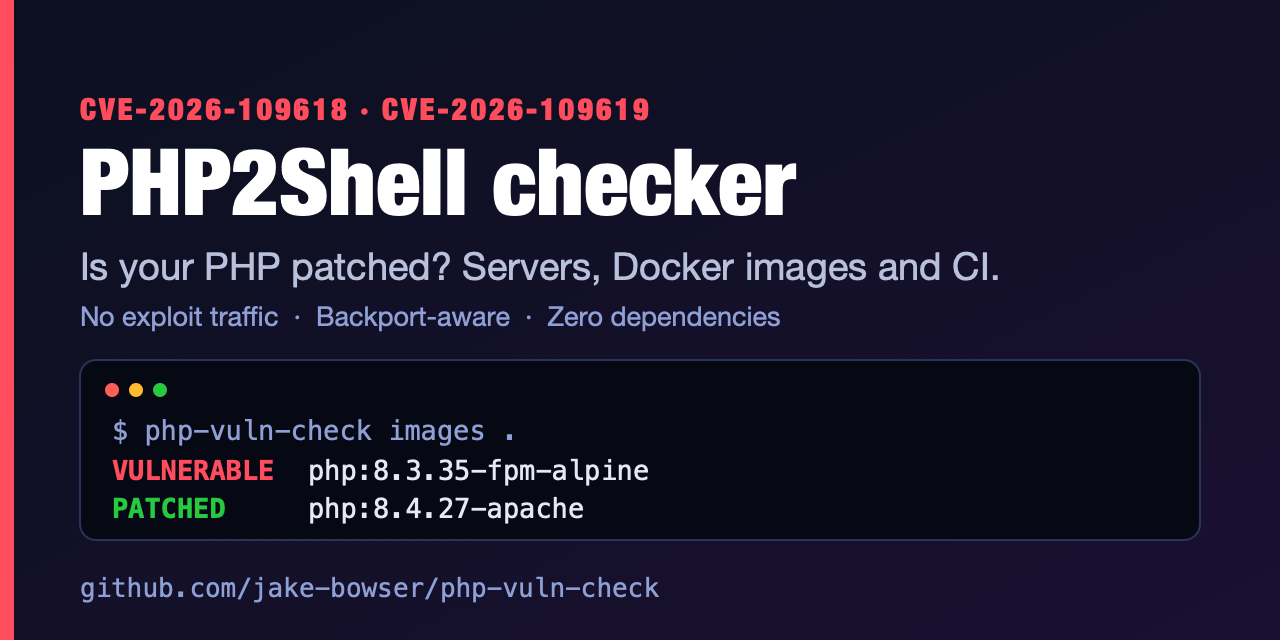
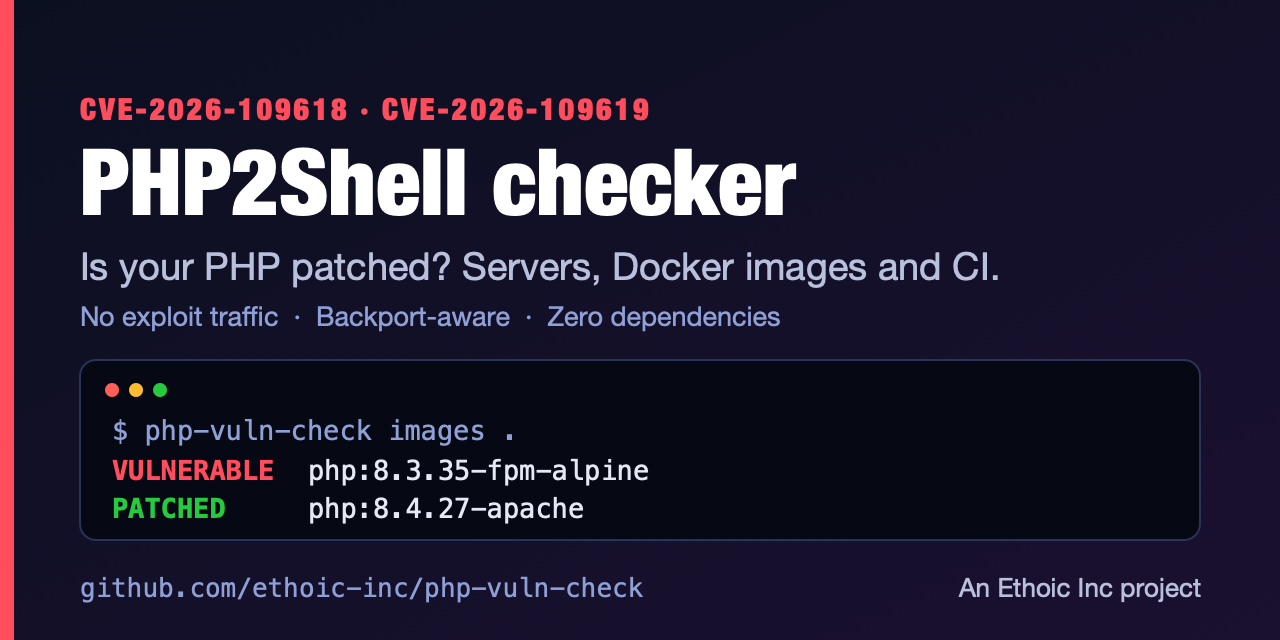
Move to the ethoic-inc org: links, attribution, public contact, v0.1.1
- every project, Pages, badge, Action and pre-commit URL now points at
  github.com/ethoic-inc/php-vuln-check and ethoic-inc.github.io/php-vuln-check
- README, site and package metadata say it is an open-source project from
  Ethoic Inc and give hello@ethoic.com as the public contact
- social preview image regenerated with the new URL and attribution
- version 0.1.1 (no change in behavior); LICENSE copyright unchanged

Changed region(s): [[0.1875, 0.9062, 0.5312, 0.9375], [0.75, 0.9062, 0.9375, 0.9375]]

diff --git a/site/index.html b/site/index.html
@@ -5,12 +5,12 @@
 <meta name="viewport" content="width=device-width, initial-scale=1">
 <title>PHP2Shell Checker: Is Your PHP Vulnerable? | php-vuln-check</title>
 <meta name="description" content="Free open-source PHP2Shell checker for CVE-2026-109618 and CVE-2026-109619. Audit servers, Docker images and CI for vulnerable PHP. No exploit traffic.">
-<link rel="canonical" href="https://jake-bowser.github.io/php-vuln-check/">
+<link rel="canonical" href="https://ethoic-inc.github.io/php-vuln-check/">
 <meta property="og:type" content="website">
 <meta property="og:title" content="PHP2Shell checker: is your PHP patched?">
 <meta property="og:description" content="Audit servers, Docker images and CI for CVE-2026-109618 and CVE-2026-109619. Backport-aware, zero dependencies, no exploit traffic.">
-<meta property="og:url" content="https://jake-bowser.github.io/php-vuln-check/">
-<meta property="og:image" content="https://jake-bowser.github.io/php-vuln-check/social-preview.png">
+<meta property="og:url" content="https://ethoic-inc.github.io/php-vuln-check/">
+<meta property="og:image" content="https://ethoic-inc.github.io/php-vuln-check/social-preview.png">
 <meta property="og:image:alt" content="php-vuln-check terminal output marking php:8.3.35-fpm-alpine VULNERABLE and php:8.4.27-apache PATCHED">
 <meta name="twitter:card" content="summary_large_image">
 <script type="application/ld+json">
@@ -22,12 +22,13 @@
   "description": "Open-source PHP vulnerability checker for PHP2Shell (CVE-2026-109618 and CVE-2026-109619). Audits servers, Docker images and CI pipelines, and understands distro backports.",
   "applicationCategory": "SecurityApplication",
   "operatingSystem": "Linux, macOS",
-  "url": "https://jake-bowser.github.io/php-vuln-check/",
-  "downloadUrl": "https://github.com/jake-bowser/php-vuln-check",
-  "codeRepository": "https://github.com/jake-bowser/php-vuln-check",
+  "url": "https://ethoic-inc.github.io/php-vuln-check/",
+  "downloadUrl": "https://github.com/ethoic-inc/php-vuln-check",
+  "codeRepository": "https://github.com/ethoic-inc/php-vuln-check",
   "license": "https://opensource.org/licenses/MIT",
   "offers": { "@type": "Offer", "price": "0", "priceCurrency": "USD" },
-  "author": { "@type": "Person", "name": "Jake Bowser" }
+  "author": { "@type": "Person", "name": "Jake Bowser" },
+  "publisher": { "@type": "Organization", "name": "Ethoic Inc", "url": "https://ethoic.com", "email": "hello@ethoic.com" }
 }
 </script>
 <style>
@@ -71,12 +72,12 @@ footer { margin-top: 56px; color: var(--muted); font-size: .9rem; }
   <p class="lead">php-vuln-check is a free, open-source PHP2Shell checker. It audits your servers, Docker images and CI pipelines, understands distro backports, and never sends exploit traffic.</p>
 
   <div class="cta">
-    <a class="btn primary" href="https://github.com/jake-bowser/php-vuln-check">View on GitHub</a>
-    <a class="btn" href="https://github.com/jake-bowser/php-vuln-check#readme">Read the docs</a>
+    <a class="btn primary" href="https://github.com/ethoic-inc/php-vuln-check">View on GitHub</a>
+    <a class="btn" href="https://github.com/ethoic-inc/php-vuln-check#readme">Read the docs</a>
   </div>
 
   <h2>Check your PHP in 10 seconds</h2>
-<pre tabindex="0"><code>pipx install git+https://github.com/jake-bowser/php-vuln-check
+<pre tabindex="0"><code>pipx install git+https://github.com/ethoic-inc/php-vuln-check
 php-vuln-check            # audit PHP on this server
 php-vuln-check images .   # audit Dockerfiles, compose files, Kubernetes manifests</code></pre>
 <pre tabindex="0"><code><span class="bad">VULNERABLE</span>  php:8.3.35-fpm-alpine
@@ -115,7 +116,7 @@ php-vuln-check images .   # audit Dockerfiles, compose files, Kubernetes manifes
   <details><summary>How is this different from other PHP2Shell scanners?</summary><p>Active scanners probe a host by deliberately triggering PHP memory exhaustion. php-vuln-check reads versions, changelogs and config instead, so it is safe on production and covers images, pipelines and whole fleets. Use both.</p></details>
 
   <footer>
-    <p>An independent open-source project under the MIT license, not affiliated with the PHP Group. Sources: <a href="https://sansec.io/research/php2shell">Sansec</a>, <a href="https://www.helpnetsecurity.com/2026/10/21/php2shell-php-vulnerabilities-patched-cve-2026-109618-cve-2026-109619/">Help Net Security</a>, <a href="https://watchtowr.com/intelligence/php-cve-2026-109618-faq/">watchTowr</a>. A PATCHED result is evidence about versions and changelogs, not a guarantee.</p>
+    <p>An open-source project from <a href="https://ethoic.com">Ethoic Inc</a>, under the MIT license and not affiliated with the PHP Group. Contact: <a href="mailto:hello@ethoic.com">hello@ethoic.com</a>. Sources: <a href="https://sansec.io/research/php2shell">Sansec</a>, <a href="https://www.helpnetsecurity.com/2026/10/21/php2shell-php-vulnerabilities-patched-cve-2026-109618-cve-2026-109619/">Help Net Security</a>, <a href="https://watchtowr.com/intelligence/php-cve-2026-109618-faq/">watchTowr</a>. A PATCHED result is evidence about versions and changelogs, not a guarantee.</p>
   </footer>
 </main>
 </body>

diff --git a/php_vuln_check.py b/php_vuln_check.py
@@ -7,7 +7,7 @@ reads versions, vendor changelogs and config, and never probes a target into
 failing.
 
 Single file, standard library only, Python 3.6+.
-https://github.com/jake-bowser/php-vuln-check  (MIT License)
+https://github.com/ethoic-inc/php-vuln-check  (MIT License)
 """
 import argparse
 import csv
@@ -30,8 +30,8 @@ import urllib.parse
 import urllib.request
 from concurrent.futures import ThreadPoolExecutor
 
-__version__ = "0.1.0"
-REPO_URL = "https://github.com/jake-bowser/php-vuln-check"
+__version__ = "0.1.1"
+REPO_URL = "https://github.com/ethoic-inc/php-vuln-check"
 
 VULNERABLE, REVIEW, PATCHED, ERROR, NONE = "VULNERABLE", "REVIEW", "PATCHED", "ERROR", "NONE"
 STATUS_ORDER = {VULNERABLE: 0, ERROR: 1, REVIEW: 2, PATCHED: 3, NONE: 4}

diff --git a/README.md b/README.md
@@ -2,17 +2,19 @@
 
 **A PHP vulnerability checker for [PHP2Shell](https://sansec.io/research/php2shell) (CVE-2026-109618 and CVE-2026-109619).** It tells you which of your servers, Docker images and pipelines still run vulnerable PHP, including the distro-backport cases that version-only checks get wrong. One file, no dependencies, and it never sends exploit traffic.
 
-[![CI](https://github.com/jake-bowser/php-vuln-check/actions/workflows/ci.yml/badge.svg)](https://github.com/jake-bowser/php-vuln-check/actions/workflows/ci.yml)
+[![CI](https://github.com/ethoic-inc/php-vuln-check/actions/workflows/ci.yml/badge.svg)](https://github.com/ethoic-inc/php-vuln-check/actions/workflows/ci.yml)
 [![License: MIT](https://img.shields.io/badge/license-MIT-blue.svg)](LICENSE)
 ![Python 3.6+](https://img.shields.io/badge/python-3.6%2B-blue)
 ![Dependencies: none](https://img.shields.io/badge/dependencies-none-brightgreen)
+
+*An open-source project from [Ethoic Inc](https://ethoic.com).*
 
 **Tested on real systems, not only fixtures.** CI installs PHP packages in Debian 12 and 13, Ubuntu 20.04 to 24.04, AlmaLinux 8 and 9, Rocky 9, Fedora, Amazon Linux, Alpine and the official `php` images, runs the tool there, and runs the unit tests on Python 3.6 to 3.13. It was security-reviewed independently before release.
 
 ## Check your PHP in 10 seconds
 
 ```bash
-pipx install git+https://github.com/jake-bowser/php-vuln-check
+pipx install git+https://github.com/ethoic-inc/php-vuln-check
 php-vuln-check                 # audit PHP on this server
 php-vuln-check images .        # audit Dockerfiles, compose files and Kubernetes manifests
 ```
@@ -20,7 +22,7 @@ php-vuln-check images .        # audit Dockerfiles, compose files and Kubernetes
 No install needed either. It is a single file with no dependencies, so you can drop it on a server:
 
 ```bash
-curl -fsSLO https://github.com/jake-bowser/php-vuln-check/releases/latest/download/php_vuln_check.py
+curl -fsSLO https://github.com/ethoic-inc/php-vuln-check/releases/latest/download/php_vuln_check.py
 python3 php_vuln_check.py
 ```
 
@@ -130,7 +132,7 @@ jobs:
     permissions: { contents: read, security-events: write }
     steps:
       - uses: actions/checkout@v4
-      - uses: jake-bowser/php-vuln-check@v0.1.0
+      - uses: ethoic-inc/php-vuln-check@v0.1.1
         with:
           fail-on: vulnerable          # or "review" to also fail on floating tags
           sarif-file: php-vuln.sarif
@@ -144,8 +146,8 @@ Findings show up in your repository's Security tab with the Dockerfile line. To 
 ```yaml
 # .pre-commit-config.yaml
 repos:
-  - repo: https://github.com/jake-bowser/php-vuln-check
-    rev: v0.1.0
+  - repo: https://github.com/ethoic-inc/php-vuln-check
+    rev: v0.1.1
     hooks:
       - id: php-vuln-check-images
 ```
@@ -196,6 +198,12 @@ Not yet. Advisories are one entry in the `ADVISORIES` list at the top of `php_vu
 
 Wrong result on your distro, a package manager we should read, or the next PHP advisory: open an issue or a pull request. Start with [CONTRIBUTING.md](CONTRIBUTING.md). To report a security problem in this tool, see [SECURITY.md](SECURITY.md).
 
+Questions, press or anything else: **hello@ethoic.com**.
+
+## About Ethoic
+
+[Ethoic Inc](https://ethoic.com) builds human-centered AI tools. We think software you depend on should be software you can check, so this tool runs on your own machine, has no telemetry and only talks to the hosts you point it at.
+
 ## Disclaimer
 
-This is an independent project, not affiliated with the PHP Group, Sansec, Assetnote, watchTowr or anyone else named here. It is provided as is under the [MIT license](LICENSE). A PATCHED result is evidence about versions and changelogs, not a guarantee. Only check systems you own or are authorized to check.
+php-vuln-check is an open-source project from Ethoic Inc. It is not affiliated with the PHP Group, Sansec, Assetnote, watchTowr or anyone else named here. It is provided as is under the [MIT license](LICENSE). A PATCHED result is evidence about versions and changelogs, not a guarantee. Only check systems you own or are authorized to check.

diff --git a/docs/HANDOFF.md b/docs/HANDOFF.md
@@ -1,7 +1,8 @@
 # Handoff
 
-## State (2026-10-22): launched
-- v0.1.0 is public: https://github.com/jake-bowser/php-vuln-check, release v0.1.0 (single-file download, wheel, sdist, SHA256SUMS), landing page on GitHub Pages (`site/`, deployed by `pages.yml`).
+## State (2026-10-22): launched, then moved to the ethoic-inc org
+- The repo was transferred from `jake-bowser` to the `ethoic-inc` GitHub organization the same day (before any posts or stars) and released as v0.1.1. Old repo and download URLs redirect; the old Pages URL does not. The `LICENSE` copyright line is unchanged on purpose; change it only when the owner says so.
+- v0.1.0 is public: https://github.com/ethoic-inc/php-vuln-check, release v0.1.0 (single-file download, wheel, sdist, SHA256SUMS), landing page on GitHub Pages (`site/`, deployed by `pages.yml`).
 - Code: `php_vuln_check.py` (scan, images, url, fleet, advisories), ~90 unit tests, a 18-leg real-distro CI matrix, a GitHub Action (`action.yml`, self-tested in CI), a pre-commit hook, README written for search.
 - **Real-distro results** (CI `Real distros` workflow): run against real PHP packages on Debian 12 and 13, Ubuntu 20.04, 22.04 and 24.04, AlmaLinux 8 and 9, Rocky 9, Fedora, Amazon Linux, Alpine and the official `php` images. Exec, default and `--no-exec` modes agree on versions; package ownership, mod_php detection and the vendor-changelog backport check work (AlmaLinux 8's PHP 7.2.24 is correctly PATCHED through a vendor backport naming both CVEs). Unit tests pass on Python 3.6, 3.7 and 3.8 to 3.13. Debian 11 is a best-effort leg (end-of-life, packages moved to the archive).
 - **Independent security review** before release (verdict BLOCK: 2 high, 8 medium). Every finding was fixed with regression tests; the rules that came out of it are in `AGENTS.md`.

diff --git a/AGENTS.md b/AGENTS.md
@@ -1,6 +1,6 @@
 # php-vuln-check: rules for AI assistants
 
-A zero-dependency Python CLI that finds PHP installs exposed to known PHP vulnerabilities, starting with PHP2Shell (CVE-2026-109618 / CVE-2026-109619). Public repo: `jake-bowser/php-vuln-check`.
+A zero-dependency Python CLI that finds PHP installs exposed to known PHP vulnerabilities, starting with PHP2Shell (CVE-2026-109618 / CVE-2026-109619). Public repo: `ethoic-inc/php-vuln-check`.
 
 ## Rules that must hold
 - **Single file, standard library only.** `php_vuln_check.py` is piped to remote hosts by `fleet`, so it cannot import anything else. Keep it Python 3.6-compatible (no walrus, no dataclasses, no `capture_output`).
@@ -17,3 +17,4 @@ A zero-dependency Python CLI that finds PHP installs exposed to known PHP vulner
 - CI also runs the tool against real PHP installed by apt (`real-php` job). Keep it green.
 - Start of session: `git pull`, read this file and `docs/HANDOFF.md`. End of session: update `docs/HANDOFF.md`, commit, push.
 - Branches: `claude/<topic>` or `codex/<topic>`, merged by PR. Do not push to `main` directly.
+- **Contact:** the public contact address is hello@ethoic.com (Ethoic Inc's choice). Do not put personal email addresses in docs, metadata or the site.

diff --git a/SECURITY.md b/SECURITY.md
@@ -2,7 +2,7 @@
 
 ## Reporting a vulnerability in php-vuln-check
 
-Please use GitHub's private vulnerability reporting: **Security tab → Report a vulnerability**. Do not open a public issue for anything exploitable.
+Please use GitHub's private vulnerability reporting: **Security tab → Report a vulnerability**. Do not open a public issue for anything exploitable. If you cannot use GitHub, email hello@ethoic.com.
 
 Of particular interest: command injection through host files or URLs (`fleet`, `url`), unsafe handling of paths given to `--path`, and any case where the tool could be tricked into reporting PATCHED for a vulnerable install.
 

diff --git a/CHANGELOG.md b/CHANGELOG.md
@@ -1,5 +1,9 @@
 # Changelog
 
+## 0.1.1 (2026-10-22)
+
+Moved to the `ethoic-inc` GitHub organization. Project links, attribution ("An open-source project from Ethoic Inc") and the public contact address (hello@ethoic.com) updated; no change in behavior.
+
 ## 0.1.0 (2026-10-22)
 
 First release, built the week PHP2Shell (CVE-2026-109618 / CVE-2026-109619) was disclosed.
